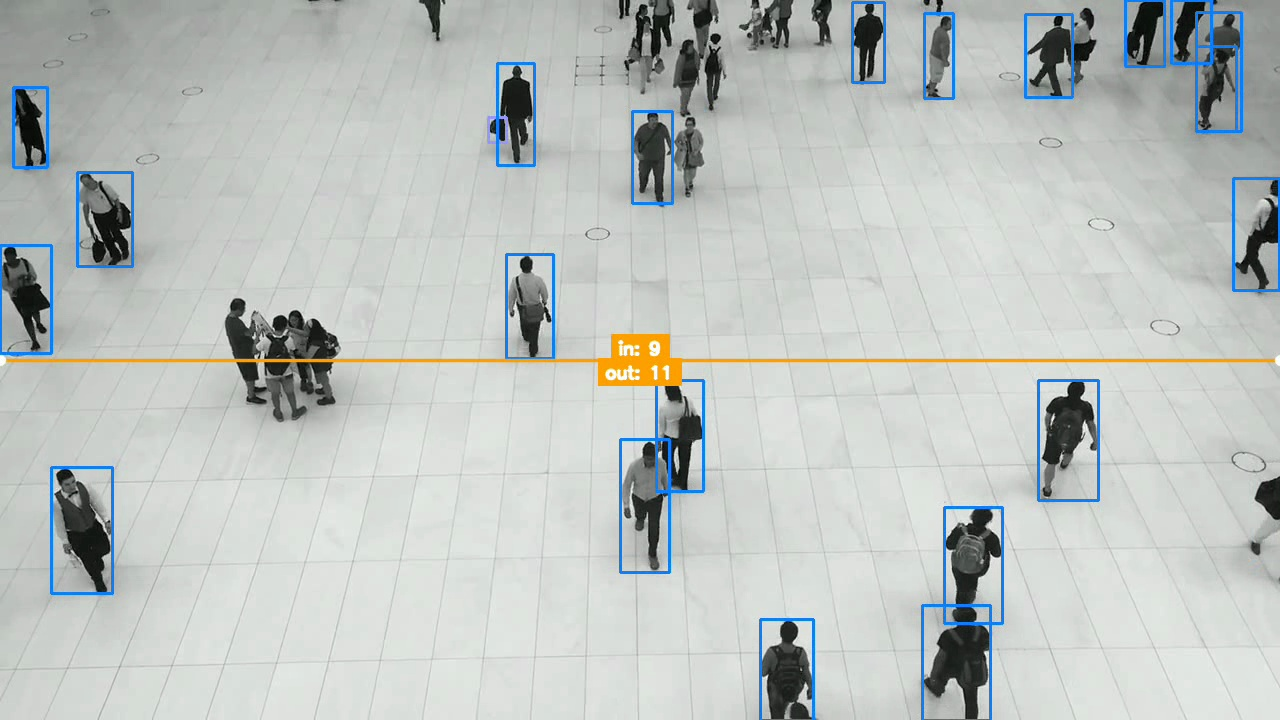
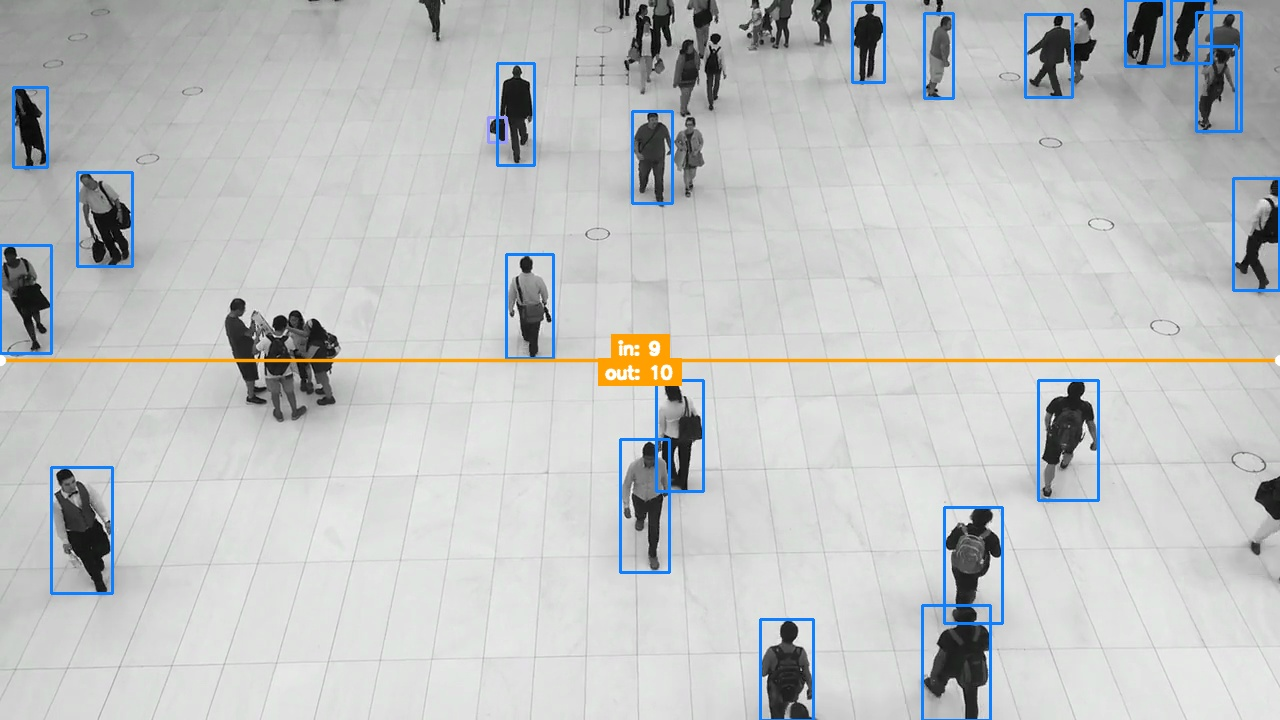
Rerun the crossings docs example with ByteTrack.

diff --git a/docs/visualization/crossings.md b/docs/visualization/crossings.md
@@ -14,7 +14,7 @@ import pixelflow as pf
 from mayaku import from_pretrained
 
 predictor = from_pretrained("mayaku-n-det")
-tracker = pf.tracker.ByteTracker()
+tracker = pf.tracker.ByteTrack()
 crossings = pf.Crossings()
 crossings.add_crossing(start=(0, 360), end=(1280, 360), name="Middle", color=(255, 160, 0))
 
@@ -31,10 +31,10 @@ with pf.VideoWriter("crowd-crossings.mp4", like=video) as writer:
         writer.write(frame)
 ```
 
-![The last frame of a video of a crowded hall: an orange line across the middle with "in: 9" and "out: 11", and boxes around the people](/docs/assets/annotate-crossings.jpg)
+![The last frame of a video of a crowded hall: an orange line across the middle with "in: 9" and "out: 10", and boxes around the people](/docs/assets/annotate-crossings.jpg)
 
-The image is the last of the 341 frames: over the video, 9 people crossed the line one way and 11
-the other.
+The image is the last of the 341 frames: over the video, 9 objects crossed the line one way (8
+people and a handbag) and 10 the other.
 
 Each line is drawn with a dot at both ends and its counts in the middle. Draw after
 `crossings.update()`, so the counts include the current frame. Counting needs tracker ids, which is
